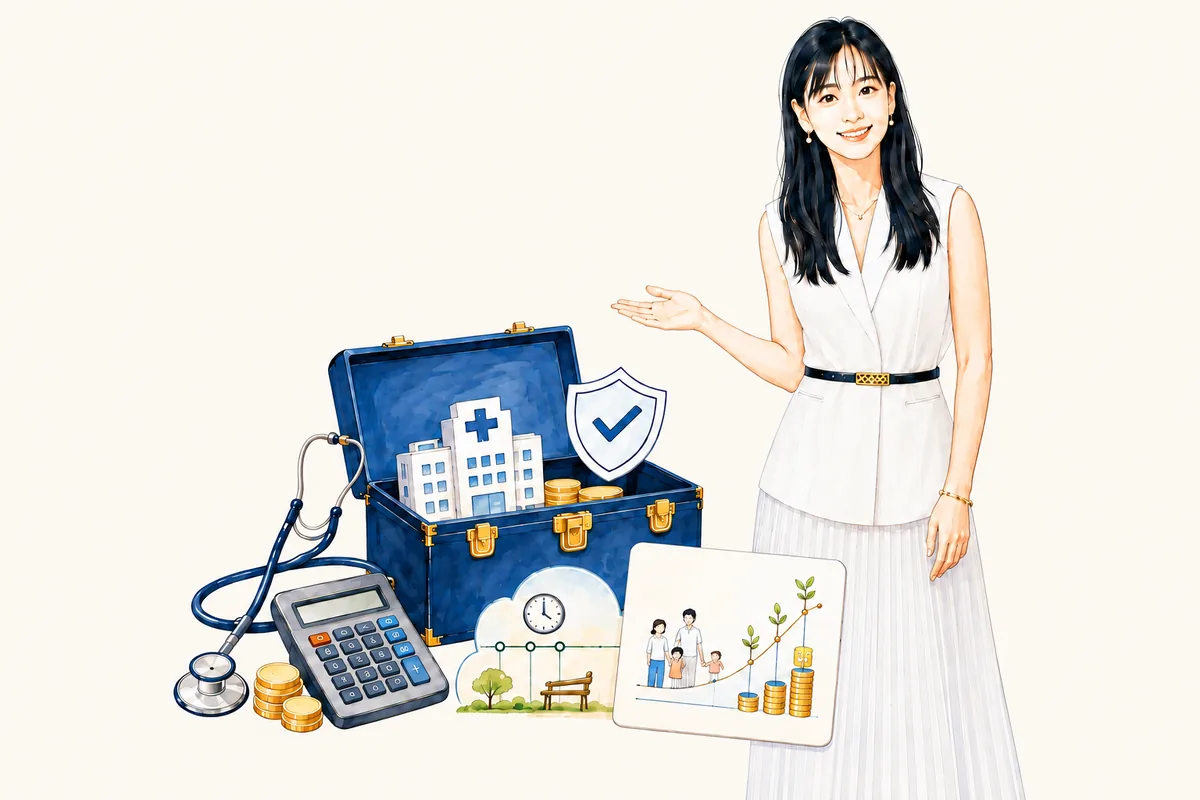
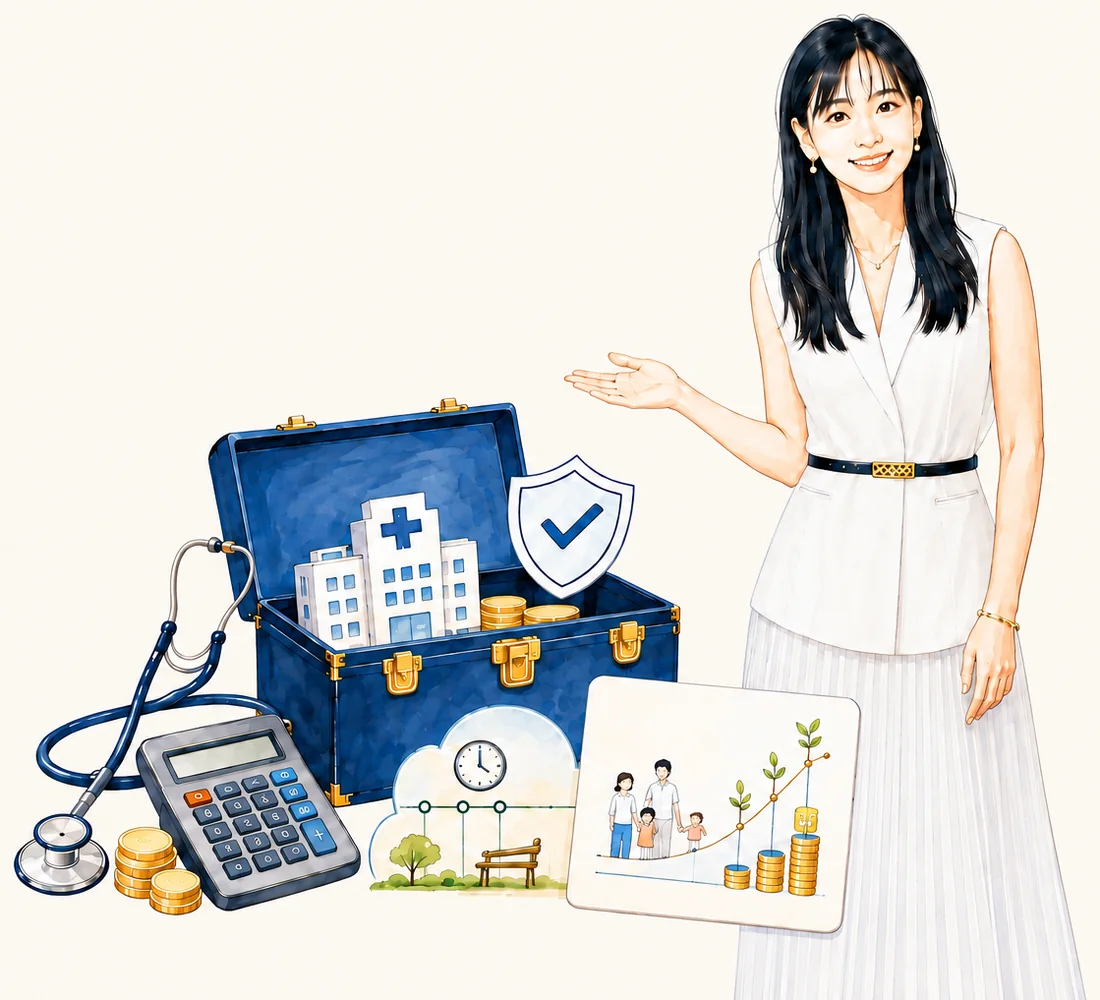
资源中心首屏:插画放大并修正比例
原图四周有 14–15% 的空白,而且主体接近正方形(内容 1091×1003),我却按
3:2 的框摆,所以显得小、比例也不对。现在按内容边界重新裁切(1100×1000),
插画列的栅格权重从 0.96 提到 1.24,并允许向右溢出容器 40–80px。
1440px 下插画由 548×498 变成 601×546,横向不会出现滚动条。
标题同步放大到 3rem / 2.05rem 与之配平。

diff --git a/app/[locale]/resources/page.tsx b/app/[locale]/resources/page.tsx
@@ -376,16 +376,16 @@ export default async function ResourcesPage({
           className="pointer-events-none absolute bottom-0 left-0 right-0 h-24 bg-gradient-to-b from-transparent to-cream"
         />
 
-        <div className="container-wide relative grid items-center gap-10 py-14 lg:grid-cols-[minmax(0,1.04fr)_minmax(0,0.96fr)] lg:gap-8 lg:py-16">
+        <div className="container-wide relative grid items-center gap-8 py-12 lg:grid-cols-[minmax(0,0.94fr)_minmax(0,1.24fr)] lg:gap-6 lg:py-14">
           <div className="order-2 lg:order-1">
             <p className="eyebrow animate-fade-up">{en ? 'Resources' : '资源中心'}</p>
             <span className="rule-gold mt-3 block animate-fade-up" />
             <h1
-              className="mt-6 animate-fade-up text-[2rem] font-black leading-[1.3] text-navy md:text-[2.75rem]"
+              className="mt-6 animate-fade-up text-[2rem] font-black leading-[1.28] text-navy md:text-[3rem]"
               style={{ animationDelay: '80ms' }}
             >
               {en ? "Yuan Yuan's toolbox" : '小圆姐的实用工具箱'}
-              <span className="mt-2 block text-[1.6rem] leading-[1.4] md:text-[2rem]">
+              <span className="mt-2.5 block text-[1.5rem] leading-[1.42] md:text-[2.05rem]">
                 {en
                   ? 'When these things come up in Singapore, start here'
                   : '在新加坡遇到这些事，先来这里找答案'}
@@ -455,9 +455,9 @@ export default async function ResourcesPage({
             <img
               src="/resources/hero-toolbox.webp"
               alt={en ? 'Yuan Yuan with her toolbox' : '小圆姐和她的工具箱'}
-              width={1200}
-              height={800}
-              className="mx-auto w-full max-w-[520px] animate-fade-in lg:max-w-none"
+              width={1100}
+              height={1000}
+              className="mx-auto w-full max-w-[440px] animate-fade-in sm:max-w-[540px] lg:max-w-none lg:-mr-10 xl:-mr-20"
             />
           </div>
         </div>
